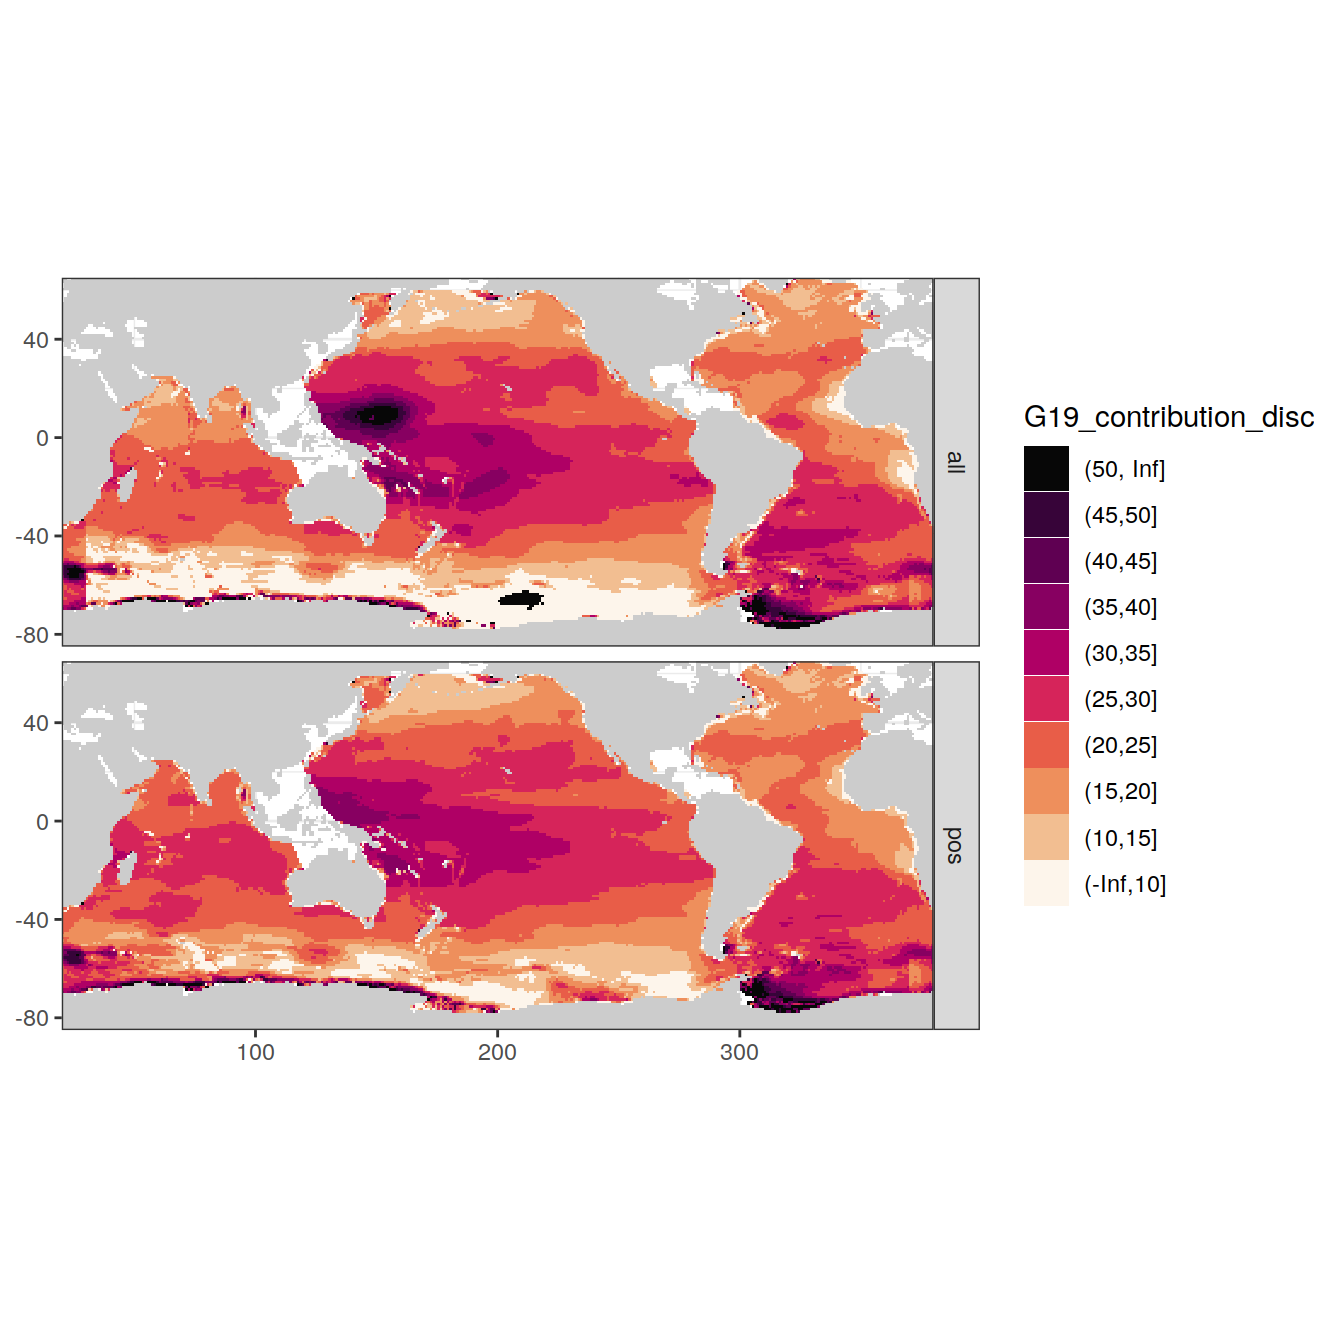
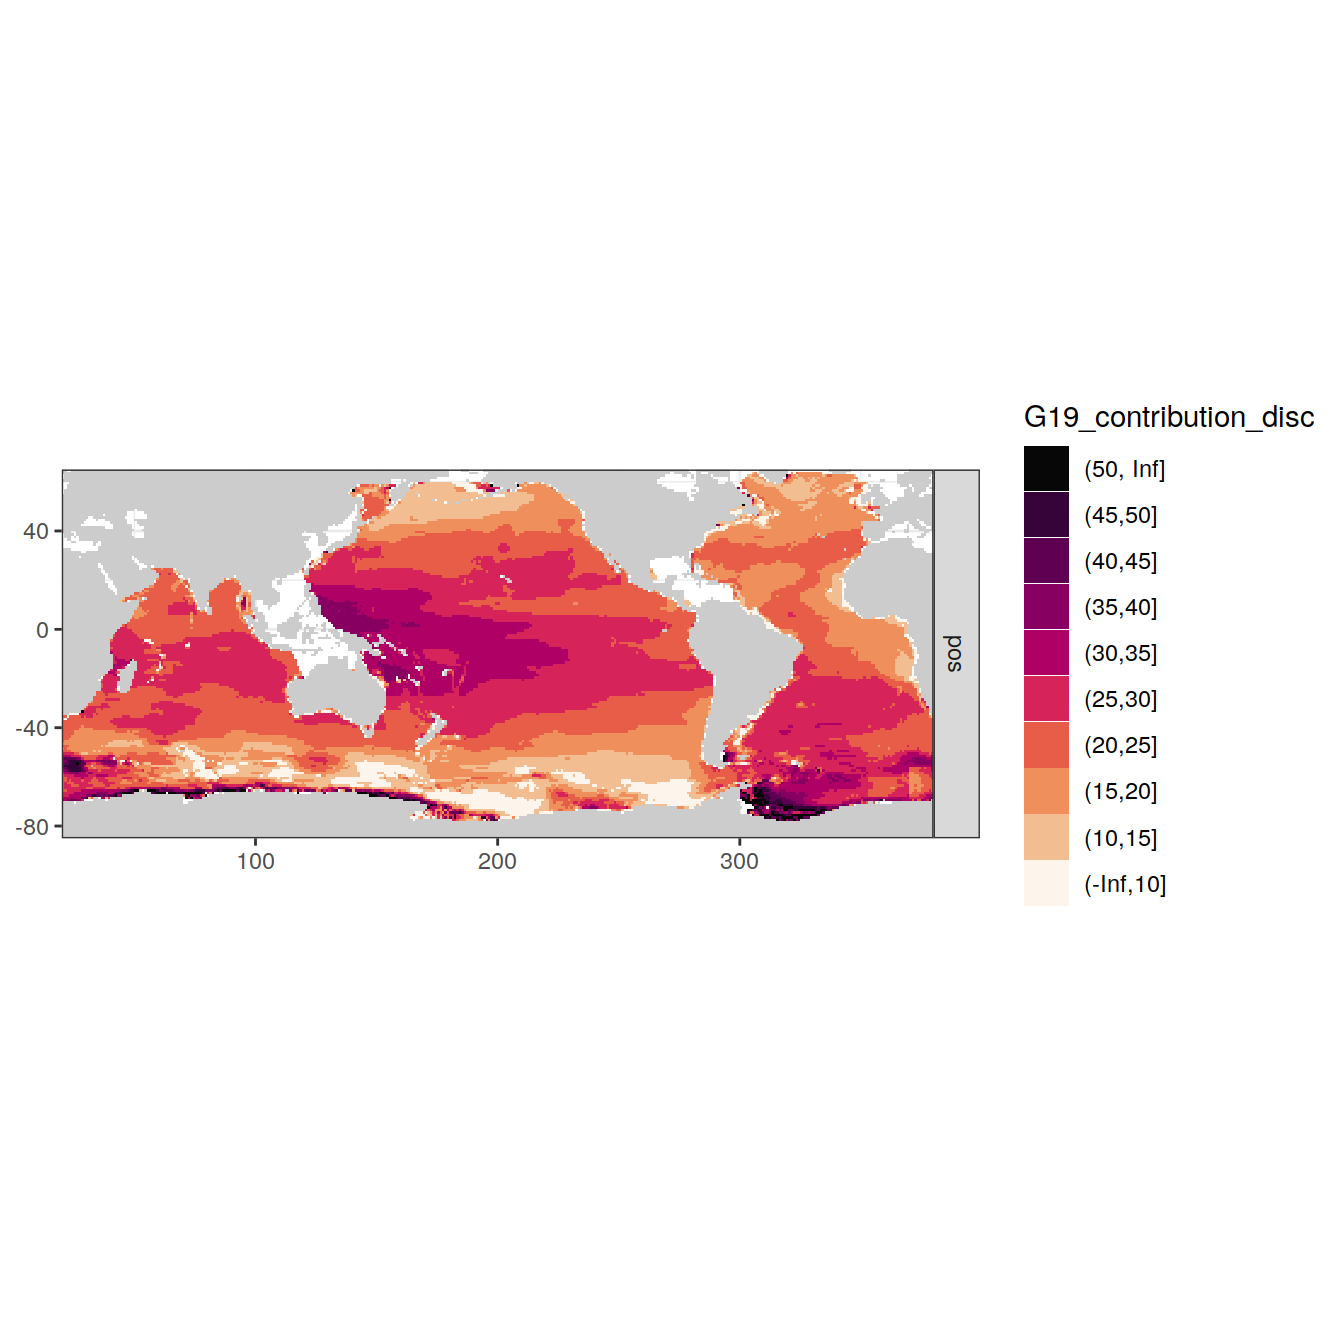
Build site.

diff --git a/docs/interior_storage.html b/docs/interior_storage.html
@@ -378,7 +378,7 @@ div.tocify {
 
 <h1 class="title toc-ignore">Ocean interior storage</h1>
 <h4 class="author">Jens Daniel Müller</h4>
-<h4 class="date">14 April, 2022</h4>
+<h4 class="date">27 April, 2022</h4>
 
 </div>
 
@@ -403,7 +403,7 @@ div.tocify {
 <div class="tab-content">
 <div id="summary" class="tab-pane fade in active">
 <p>
-<strong>Last updated:</strong> 2022-04-14
+<strong>Last updated:</strong> 2022-04-27
 </p>
 <p>
 <strong>Checks:</strong> <span class="glyphicon glyphicon-ok text-success" aria-hidden="true"></span> 7 <span class="glyphicon glyphicon-exclamation-sign text-danger" aria-hidden="true"></span> 0
@@ -494,16 +494,16 @@ This reproducible <a href="https://rmarkdown.rstudio.com">R Markdown</a> analysi
 <div class="panel panel-default">
 <div class="panel-heading">
 <p class="panel-title">
-<a data-toggle="collapse" data-parent="#workflowr-checks" href="#strongRepositoryversionstrongahrefhttpsgithubcomjensdanielmuelleroceancarbonsinkreviewtreec2cd18e23830fd53338732ba4b0665cb292c35f5targetblankc2cd18ea"> <span class="glyphicon glyphicon-ok text-success" aria-hidden="true"></span> <strong>Repository version:</strong> <a href="https://github.com/jens-daniel-mueller/ocean_carbon_sink_review/tree/c2cd18e23830fd53338732ba4b0665cb292c35f5" target="_blank">c2cd18e</a> </a>
+<a data-toggle="collapse" data-parent="#workflowr-checks" href="#strongRepositoryversionstrongahrefhttpsgithubcomjensdanielmuelleroceancarbonsinkreviewtree36b88dcd2f502d3463127fb14303df50141d51eatargetblank36b88dca"> <span class="glyphicon glyphicon-ok text-success" aria-hidden="true"></span> <strong>Repository version:</strong> <a href="https://github.com/jens-daniel-mueller/ocean_carbon_sink_review/tree/36b88dcd2f502d3463127fb14303df50141d51ea" target="_blank">36b88dc</a> </a>
 </p>
 </div>
[2 lines of base64/hex data omitted]
 <div class="panel-body">
 <p>
 Great! You are using Git for version control. Tracking code development and connecting the code version to the results is critical for reproducibility.
 </p>
 <p>
-The results in this page were generated with repository version <a href="https://github.com/jens-daniel-mueller/ocean_carbon_sink_review/tree/c2cd18e23830fd53338732ba4b0665cb292c35f5" target="_blank">c2cd18e</a>. See the <em>Past versions</em> tab to see a history of the changes made to the R Markdown and HTML files.
+The results in this page were generated with repository version <a href="https://github.com/jens-daniel-mueller/ocean_carbon_sink_review/tree/36b88dcd2f502d3463127fb14303df50141d51ea" target="_blank">36b88dc</a>. See the <em>Past versions</em> tab to see a history of the changes made to the R Markdown and HTML files.
 </p>
 <p>
 Note that you need to be careful to ensure that all relevant files for the analysis have been committed to Git prior to generating the results (you can use <code>wflow_publish</code> or <code>wflow_git_commit</code>). workflowr only checks the R Markdown file, but you know if there are other scripts or data files that it depends on. Below is the status of the Git repository when the results were generated:
@@ -553,6 +553,40 @@ Message
 </tr>
 </thead>
 <tbody>
+<tr>
+<td>
+Rmd
+</td>
+<td>
+<a href="https://github.com/jens-daniel-mueller/ocean_carbon_sink_review/blob/36b88dcd2f502d3463127fb14303df50141d51ea/analysis/interior_storage.Rmd" target="_blank">36b88dc</a>
+</td>
+<td>
+jens-daniel-mueller
+</td>
+<td>
+2022-04-27
+</td>
+<td>
+incl all G19 data without mask
+</td>
+</tr>
+<tr>
+<td>
+html
+</td>
+<td>
+<a href="https://rawcdn.githack.com/jens-daniel-mueller/ocean_carbon_sink_review/99018ac0e89d31e6d40f13e6bf26cdbbb33b3252/docs/interior_storage.html" target="_blank">99018ac</a>
+</td>
+<td>
+jens-daniel-mueller
+</td>
+<td>
+2022-04-14
+</td>
+<td>
+Build site.
+</td>
+</tr>
 <tr>
 <td>
 Rmd
@@ -1048,7 +1082,7 @@ file_khatiwala &lt;- paste0(path_updata,
 <h2>Gruber 2019</h2>
 <pre class="r"><code>dcant_inv_G19 &lt;-
   read_csv(paste(path_emlr_preprocessing,
-                  &quot;G19_dcant_inv.csv&quot;,
+                  &quot;G19_dcant_inv_publ.csv&quot;,
                   sep = &quot;&quot;))
 
 
@@ -1060,11 +1094,14 @@ dcant_G19 &lt;- bind_cols(year = 2007, dcant_mean = 34, dcant_sd = 4)</code></pr
   read_csv(paste(path_emlr_preprocessing,
                   &quot;S04_tcant_inv.csv&quot;, sep = &quot;&quot;))
 
+tcant_inv_S04 &lt;- tcant_inv_S04 %&gt;% 
+  select(-c(tcant, inv_depth, basin_AIP))
+
 tcant_S04 &lt;- bind_cols(year = 1994, dcant_mean = 118, dcant_sd = 19)</code></pre>
 </div>
 <div id="khatiwala" class="section level2">
 <h2>Khatiwala</h2>
-<pre class="r"><code>khatiwala &lt;- read_table2(file_khatiwala)</code></pre>
+<pre class="r"><code>khatiwala &lt;- read_table(file_khatiwala)</code></pre>
 </div>
 <div id="gcb-2021" class="section level2">
 <h2>GCB 2021</h2>
@@ -1091,18 +1128,13 @@ Ocean_Sink &lt;-
                         tcant_inv_S04)
 
 tcant_2007 &lt;- tcant_2007 %&gt;% 
-  mutate(data_missing = if_else(is.na(dcant), &quot;G19&quot;, &quot;available&quot;),
-         data_missing = if_else(is.na(tcant), &quot;S04&quot;, data_missing),
-         data_missing = if_else(is.na(tcant) &amp; is.na(dcant), &quot;S04&amp;G19&quot;, data_missing),
-         tcant = tcant + dcant,
-         tcant_pos = tcant_pos + dcant_pos) %&gt;% 
-  select(-c(inv_depth, basin_AIP)) %&gt;% 
-  rename(tcant_all = tcant,
-         dcant_all = dcant) 
+  mutate(data_missing = if_else(is.na(dcant_pos), &quot;G19&quot;, &quot;available&quot;),
+         data_missing = if_else(is.na(tcant_pos), &quot;S04&quot;, data_missing),
+         data_missing = if_else(is.na(tcant_pos) &amp; is.na(dcant_pos), &quot;S04&amp;G19&quot;, data_missing),
+         tcant_pos = tcant_pos + dcant_pos)
 
 tcant_2007_contribution &lt;- tcant_2007 %&gt;% 
-  mutate(G19_contribution_all = 100* dcant_all / tcant_all,
-         G19_contribution_pos = 100* dcant_pos / tcant_pos) %&gt;% 
+  mutate(G19_contribution_pos = 100* dcant_pos / tcant_pos) %&gt;% 
   select(-starts_with(c(&quot;dcant&quot;, &quot;tcant&quot;, &quot;data&quot;))) %&gt;% 
   pivot_longer(starts_with(&quot;G19&quot;),
                names_to = &quot;estimate&quot;,
@@ -2122,6 +2154,17 @@ Date
 </tr>
 </thead>
 <tbody>
+<tr>
+<td>
+<a href="https://github.com/jens-daniel-mueller/ocean_carbon_sink_review/blob/99018ac0e89d31e6d40f13e6bf26cdbbb33b3252/docs/figure/interior_storage.Rmd/khatiwala_vs_models-1.png" target="_blank">99018ac</a>
+</td>
+<td>
+jens-daniel-mueller
+</td>
+<td>
+2022-04-14
+</td>
+</tr>
 <tr>
 <td>
 <a href="https://github.com/jens-daniel-mueller/ocean_carbon_sink_review/blob/b1454bef4f2688c3a2f0afaa5e97ad45af2ae6ea/docs/figure/interior_storage.Rmd/khatiwala_vs_models-1.png" target="_blank">b1454be</a>
